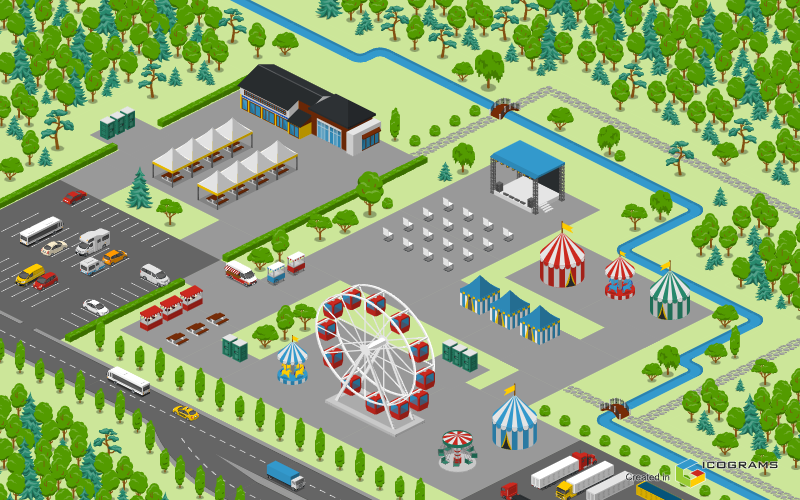
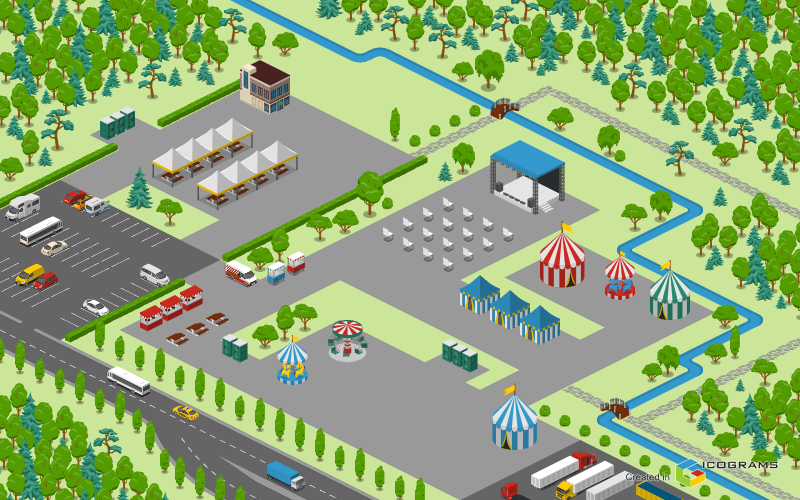
Added background

diff --git a/theme_park/simulation.py b/theme_park/simulation.py
@@ -196,26 +196,30 @@ class ThemeParkSim:
         self.node_data[node_id] = node
 
     def _build_park(self) -> None:
-        self._add_node("entrance", 120, 400, "intersection", "Entrance")
-        self._add_node("n1", 300, 200, "intersection", "Crossroad A")
-        self._add_node("n2", 300, 600, "intersection", "Crossroad B")
-        self._add_node("ride1", 520, 180, "ride", "Roller Coaster", capacity=20, image_path="inputs/roller_coaster.png",ride_duration_steps=15,min_occupancy_ratio=0.80)
-        self._add_node("ride2", 560, 410, "ride", "Ferris Wheel", capacity=32, image_path = "inputs/Ferris_wheel.png", ride_duration_steps=20,min_occupancy_ratio=0.80)
-        self._add_node("ride3", 520, 650, "ride", "Log Flume", capacity=24, image_path = "inputs/Log_flume.png", ride_duration_steps=17, min_occupancy_ratio=0.80)
-        self._add_node("n3", 760, 240, "intersection", "Path East")
-        self._add_node("n4", 770, 560, "intersection", "Path East 2")
+        self._add_node("entrance", 120, 360, "intersection", "Entrance")
+        self._add_node("n1", 312, 490, "intersection", "Crossroad A")
+        self._add_node("n2", 227, 550, "intersection", "Crossroad B")
+        self._add_node("n3", 484, 724, "intersection", "Crossroad C")
+        self._add_node("n4", 744, 539, "intersection", "Crossroad D")
+        self._add_node("n5", 598, 445, "intersection", "Crossroad E")
+        self._add_node("ride1", 874, 381, "ride", "Log Flume", capacity=24, image_path="inputs/Log_flume.png",ride_duration_steps=17,min_occupancy_ratio=0.80)
+        self._add_node("ride2", 496, 373, "ride", "Ferris Wheel", capacity=32, image_path = "inputs/Ferris_wheel.png", ride_duration_steps=20,min_occupancy_ratio=0.80)
+        self._add_node("ride3", 562, 662, "ride", "Roller Coaster", capacity=20, image_path = "inputs/roller_coaster.png", ride_duration_steps=15, min_occupancy_ratio=0.80)
+        self._add_node("n6", 854, 271, "intersection", "Path East ")
+        self._add_node("n7", 932, 324, "intersection", "Path East 2")
 
         edges = [
             ("entrance", "n1"),
-            ("entrance", "n2"),
-            ("n1", "ride1"),
+            ("n1", "n2"),
             ("n1", "ride2"),
-            ("n2", "ride2"),
-            ("n2", "ride3"),
-            ("ride1", "n3"),
-            ("ride2", "n3"),
-            ("ride2", "n4"),
-            ("ride3", "n4")
+            ("n2", "n3"),
+            ("n3", "ride3"),
+            ("n4", "ride3"),
+            ("n4", "n5"),
+            ("n5", "ride2"),
+            ("n5", "n6"),
+            ("n6", "n7"),
+            ("n7", "ride1")
         ]
         for u, v in edges:
             x1, y1 = self.positions[u]
@@ -443,7 +447,14 @@ class ThemeParkSim:
             elif agent.state in ("moving", "stationary"):
                 agent.force_exit_from_queue(self)
     
-    
+    def update_edge_lengths(self) -> None:
+        for (u, v), edge in self.edge_data.items():
+            x1, y1 = self.positions[u]
+            x2, y2 = self.positions[v]
+            edge.length = math.dist((x1, y1), (x2, y2))
+
+            if self.graph.has_edge(u, v):
+                self.graph[u][v]["length"] = edge.length
     
     
     

diff --git a/theme_park/view.py b/theme_park/view.py
@@ -85,7 +85,7 @@ class ParkView:
         self.screen = screen
         self.font = font
         self.small_font = small_font
-        self.background = pygame.image.load("inputs/Theme_Park_Map.png").convert()
+        self.background = pygame.image.load("inputs/Theme_Park_Map (1).png").convert()
         self.background = pygame.transform.smoothscale(self.background, (SIM_W, HEIGHT))
 
     @staticmethod
@@ -165,7 +165,7 @@ class ParkView:
         dot_radius = 5
         dot_spacing = 0
         label_gap = 3
-        top_margin = 10
+        top_margin = 2
         row_gap = 6
         row_height = dot_radius * 2
 
@@ -282,7 +282,7 @@ class ParkView:
                 used_image = True
                 image_half_height = meta.image.get_height() // 2
 
-            if not used_image:
+            if not used_image and meta.kind=="ride":
                 pygame.draw.circle(self.screen, color, (int(x), int(y)), radius)
                 pygame.draw.circle(self.screen, (255, 255, 255), (int(x), int(y)), radius, 2)
 

diff --git a/theme_park/models.py b/theme_park/models.py
@@ -74,7 +74,7 @@ class NodeData:
 
                     #  Bigger sizing logic
                     if kind == "ride":
-                        size = 120   # 👈 adjust this (80–120 recommended)
+                        size = 160   # 👈 adjust this (80–120 recommended)
                     else:
                         size = 40   # smaller for intersections
 
